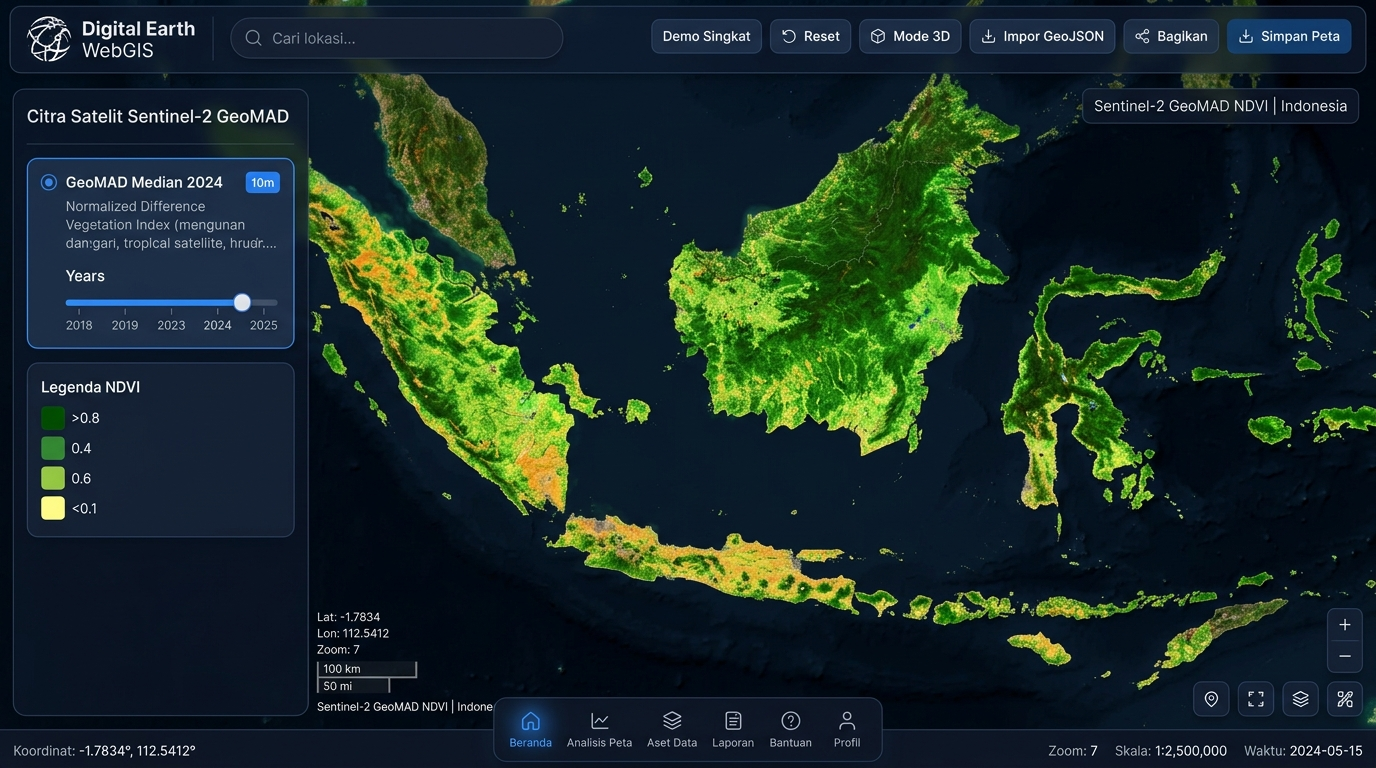
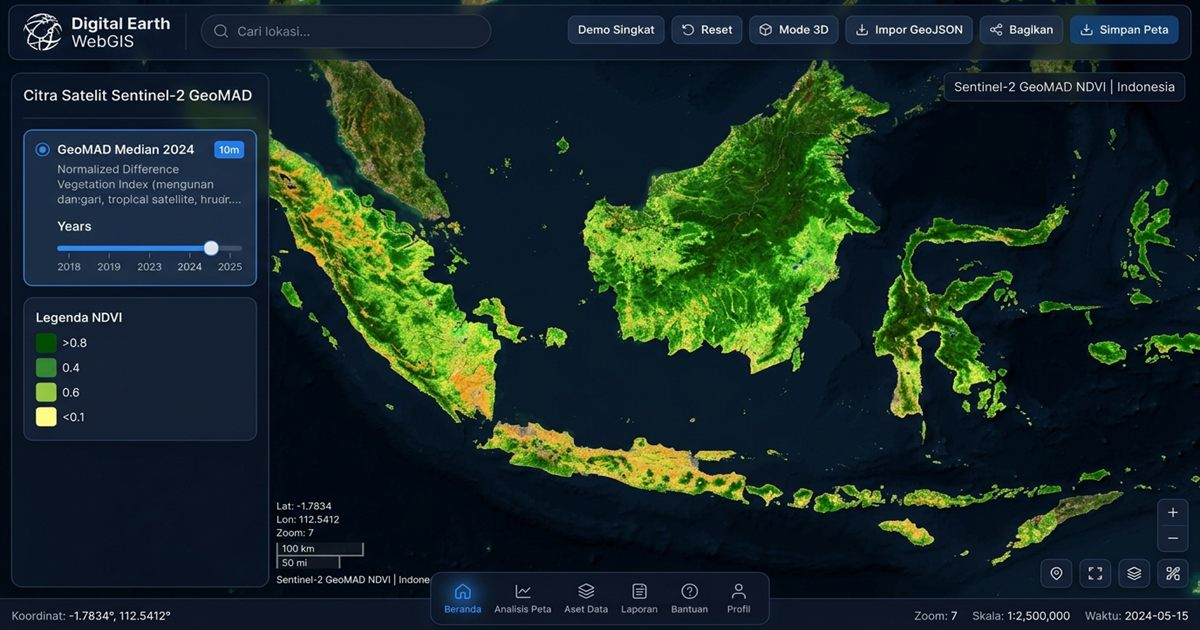
perf: compress og/docs preview images and improve attribute table onboarding
- Optimize og-preview.jpg and docs/preview.jpg from 758KB to 129KB (1200x630)
- Auto-navigate to Data Tab when opening Attribute Table without uploaded layers

diff --git a/src/ui/attribute-table-panel.ts b/src/ui/attribute-table-panel.ts
@@ -16,6 +16,8 @@ export class AttributeTableUI {
   private isMinimized: boolean = false;
   private highlightMarker: maplibregl.Marker | null = null;
 
+  private onSwitchToDataTabCb: (() => void) | null = null;
+
   constructor(map: maplibregl.Map, geojsonLoader: GeoJsonLoader) {
     this.map = map;
     this.geojsonLoader = geojsonLoader;
@@ -27,6 +29,10 @@ export class AttributeTableUI {
         this.render();
       }
     });
+  }
+
+  public setOnSwitchToDataTab(cb: () => void) {
+    this.onSwitchToDataTabCb = cb;
   }
 
   private initDOM() {
@@ -45,7 +51,10 @@ export class AttributeTableUI {
   public open(layerId?: string) {
     const layers = this.geojsonLoader.getLayers();
     if (layers.length === 0) {
-      showToast('Belum ada layer vektor kustom yang diunggah. Silakan unggah GeoJSON terlebih dahulu.', 'info');
+      showToast('Belum ada layer vektor kustom. Membuka Tab Data untuk unggah GeoJSON/CSV/KML atau muat data sampel.', 'info', 4000);
+      if (this.onSwitchToDataTabCb) {
+        this.onSwitchToDataTabCb();
+      }
       return;
     }
 

diff --git a/src/main.ts b/src/main.ts
@@ -233,6 +233,7 @@ class WebGISApp {
 
       // Instantiate Attribute Table & Shortcuts Modal
       this.attributeTableUI = new AttributeTableUI(map, this.geojsonLoader);
+      this.attributeTableUI.setOnSwitchToDataTab(() => this.sidebarUI.setActiveTab('data'));
       this.shortcutsModalUI = new ShortcutsModalUI();
 
       this.dataPanelUI.onOpenAttributeTable((layerId) => this.attributeTableUI?.open(layerId));
